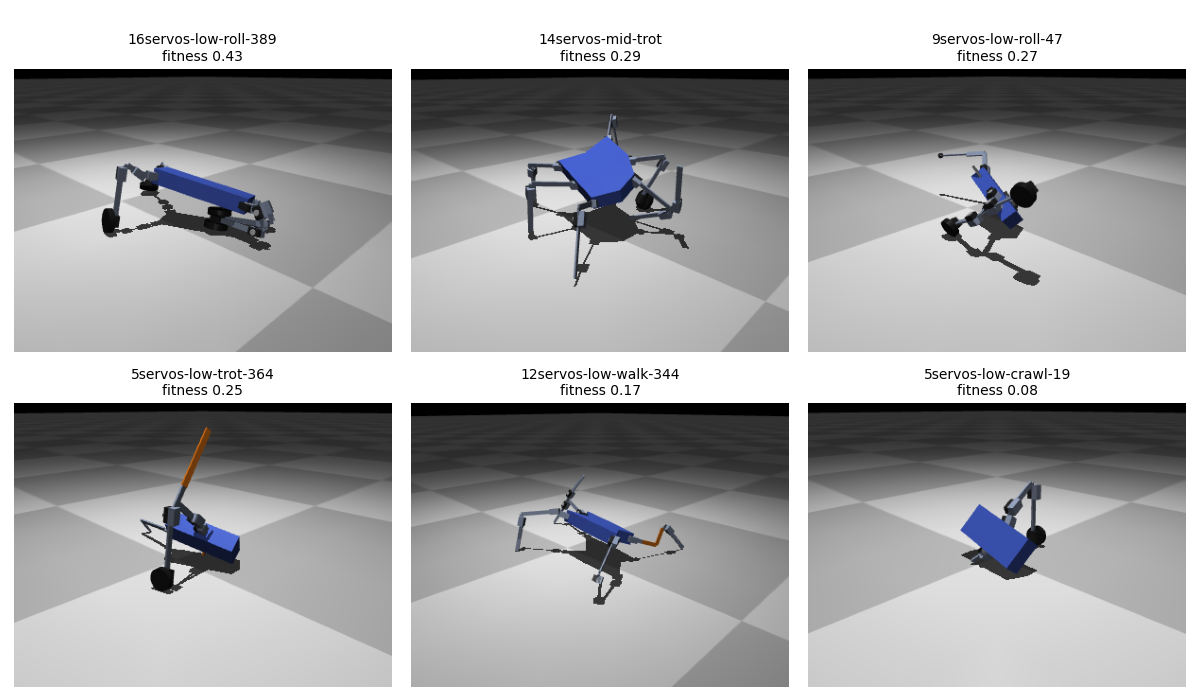
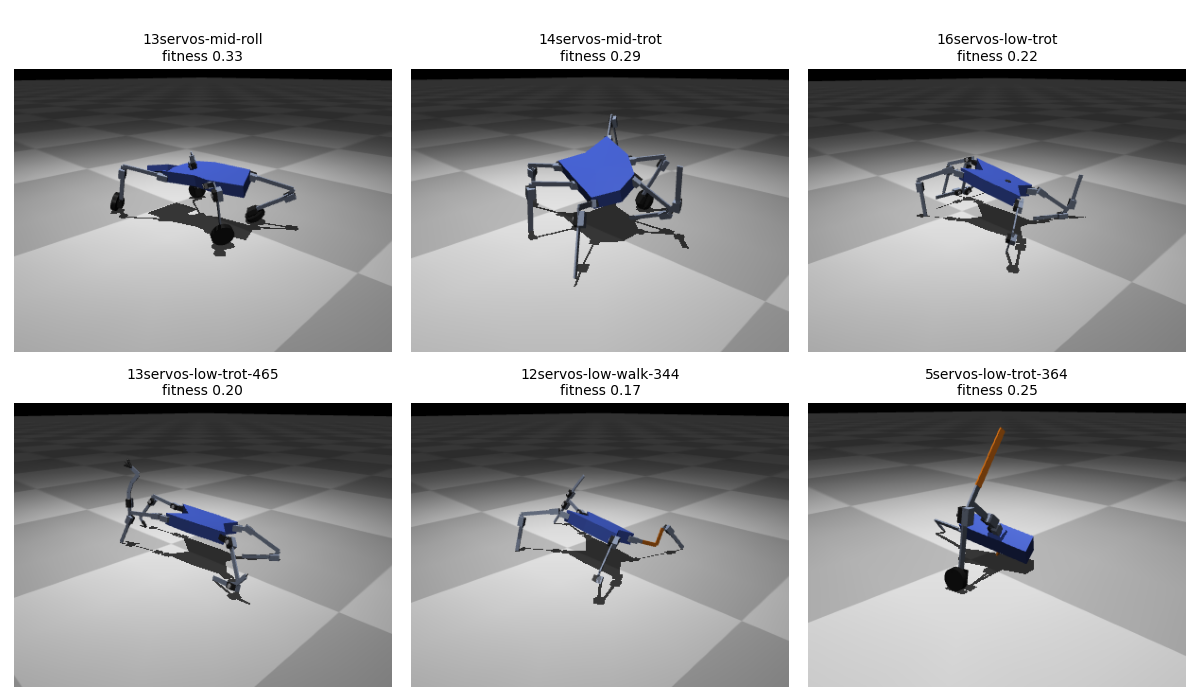
Showcase robots that move well
make_readme_figures.py leaves a showcase slot empty when its best robot
scores under 35% of the top one, and --types pins the robots to show.
The README figures now show a wheeled rover, three legged trotters, a
walker and a tailed trotter.

diff --git a/tools/make_readme_figures.py b/tools/make_readme_figures.py
@@ -86,21 +86,32 @@ SHOWCASE = (
 )
 MIN_SHOWCASE_SERVOS = 3      # a one-servo brick is a valid elite but a dull picture
 SHOWCASE_NEAR_BEST = 0.9     # within this share of a slot's best, show the simplest body
+SHOWCASE_MIN_SHARE = 0.35    # a slot whose best is under this share of the top robot stays empty
 
 
-def pick_distinct(items, n=6):
+def pick_distinct(items, n=6, types=None):
     """
+    With `types` (type names, as `replay.py --list` prints them), exactly those
+    robots, in that order. Otherwise:
     One robot per SHOWCASE slot (each robot used once, bodies with fewer than
     MIN_SHOWCASE_SERVOS skipped): among the robots of a slot that reach
     SHOWCASE_NEAR_BEST of its best fitness, the one with the fewest parts, so a
     tidy body is shown instead of a sprawling one that is barely faster. Empty
     slots are filled with the next best robots.
     """
+    if types:
+        by_name = dict(items)
+        missing = [t for t in types if t not in by_name]
+        if missing:
+            raise SystemExit(f"not in the archive: {missing}")
+        return [(t, by_name[t]) for t in types[:n]]
     decoded = [(cell, e, morpho.decode(e.morph)) for cell, e in items]
+    floor = SHOWCASE_MIN_SHARE * items[0][1].fitness
     pool = [d for d in decoded if d[2].n_servos >= MIN_SHOWCASE_SERVOS] or decoded
     chosen = []
     for _, wanted in SHOWCASE:
-        fits = [d for d in pool if d not in chosen and wanted(d[2], d[0])]
+        fits = [d for d in pool if d not in chosen and wanted(d[2], d[0])
+                and d[1].fitness >= floor]
         if fits:                               # items are sorted: first = best
             near = [d for d in fits if d[1].fitness >= SHOWCASE_NEAR_BEST * fits[0][1].fitness]
             chosen.append(min(near, key=lambda d: len(d[2].nodes)))
@@ -143,8 +154,8 @@ def fmt_size(path):
     return f"{os.path.getsize(path) / 1024:.0f} KB"
 
 
-def make_robots(items, out, seed):
-    chosen = pick_distinct(items)
+def make_robots(items, out, seed, types=None):
+    chosen = pick_distinct(items, types=types)
     flat = get_terrains("flat")[0]
     w, h = 400, 300
     tiles = []
@@ -196,12 +207,12 @@ def _record(cell, elite, seconds, fps, size):
     return frames
 
 
-def make_gait(items, out, seed, seconds=4.0, fps=15, size=(360, 240)):
+def make_gait(items, out, seed, types=None, seconds=4.0, fps=15, size=(360, 240)):
     """2 x 2 grid of four different robots moving at the same time: the
     first SHOWCASE picks (best roller, then the best legged gaits)."""
     from PIL import Image
 
-    chosen = pick_distinct(items, n=4)
+    chosen = pick_distinct(items, n=4, types=types)
     clips = [_record(c, e, seconds, fps, size) for c, e in chosen]
     cols = 2
     rows = -(-len(clips) // cols)
@@ -364,7 +375,10 @@ def main():
     p.add_argument("--only", default=None,
                    help=f"comma list of figures to make: {', '.join(FIGURES)}")
     p.add_argument("--seed", type=int, default=0, help="tie-break among equal fitness")
+    p.add_argument("--types", default=None,
+                   help="comma list of robot types to show, in order, instead of the automatic pick")
     a = p.parse_args()
+    types = [t.strip() for t in a.types.split(",") if t.strip()] if a.types else None
 
     which = list(FIGURES) if a.only is None else [s.strip() for s in a.only.split(",") if s.strip()]
     unknown = [s for s in which if s not in FIGURES]
@@ -378,8 +392,8 @@ def main():
     items = ranked(archive, a.seed)
 
     written, t0 = [], time.time()
-    steps = {"robots": lambda: make_robots(items, a.out, a.seed),
-             "gait": lambda: make_gait(items, a.out, a.seed),
+    steps = {"robots": lambda: make_robots(items, a.out, a.seed, types),
+             "gait": lambda: make_gait(items, a.out, a.seed, types),
              "parts": lambda: make_parts(items, a.out, a.seed)}
     for name in which:
         if name in steps:

diff --git a/AGENTS.md b/AGENTS.md
@@ -25,6 +25,7 @@ python experiments/validate.py --type <type>  # PASS if it loses < 30% under var
 python experiments/export.py --type <type>    # exports/<type>/
 python experiments/plot_archive.py
 python tools/terrain_sheet.py --archive <archive.pkl>    # docs/img/terrains.png
+python tools/make_readme_figures.py --archive <archive.pkl> --types a,b,c,d   # README figures; --types pins the robots shown
 python tools/parts_sheet.py exports/<type>    # every printed part on one image
 python experiments/merge_archives.py a.pkl b.pkl --out merged.pkl   # islands: best elite per cell
 python tools/kaggle/islands.py --user <you> --code-dataset <you>/darwinbot-code   # islands on Kaggle
